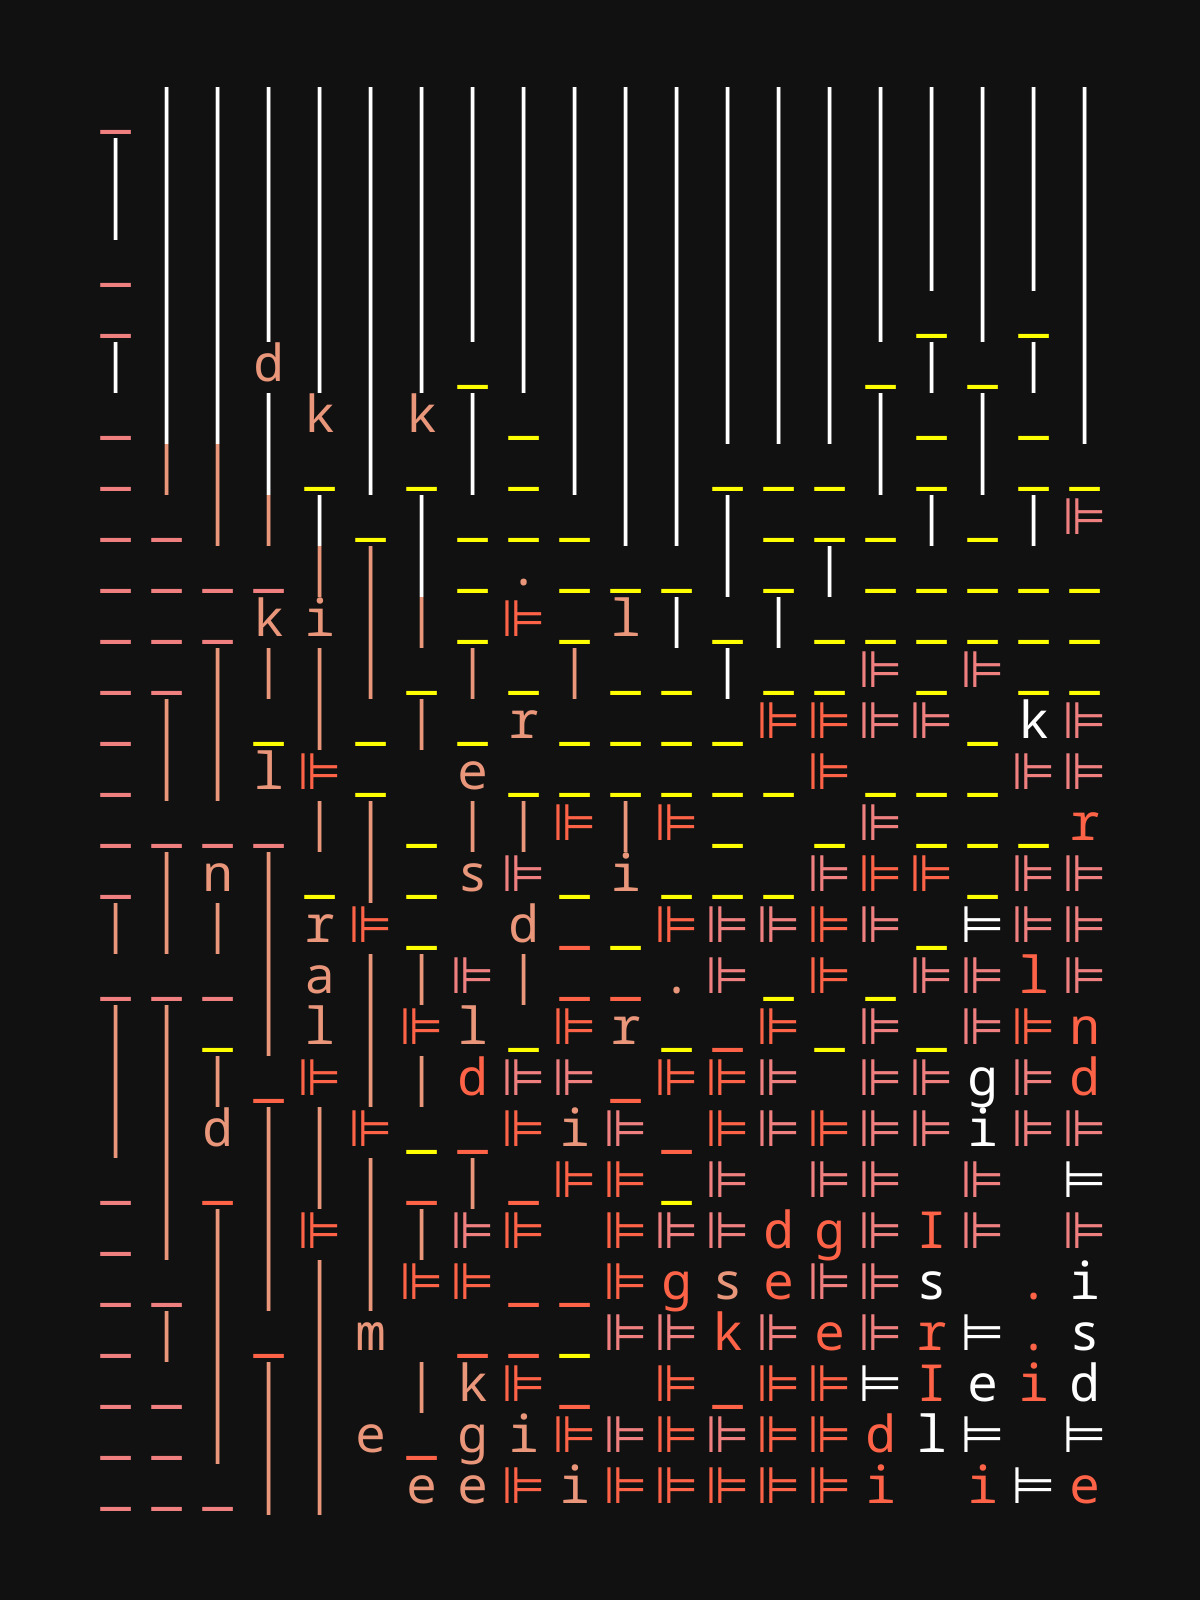
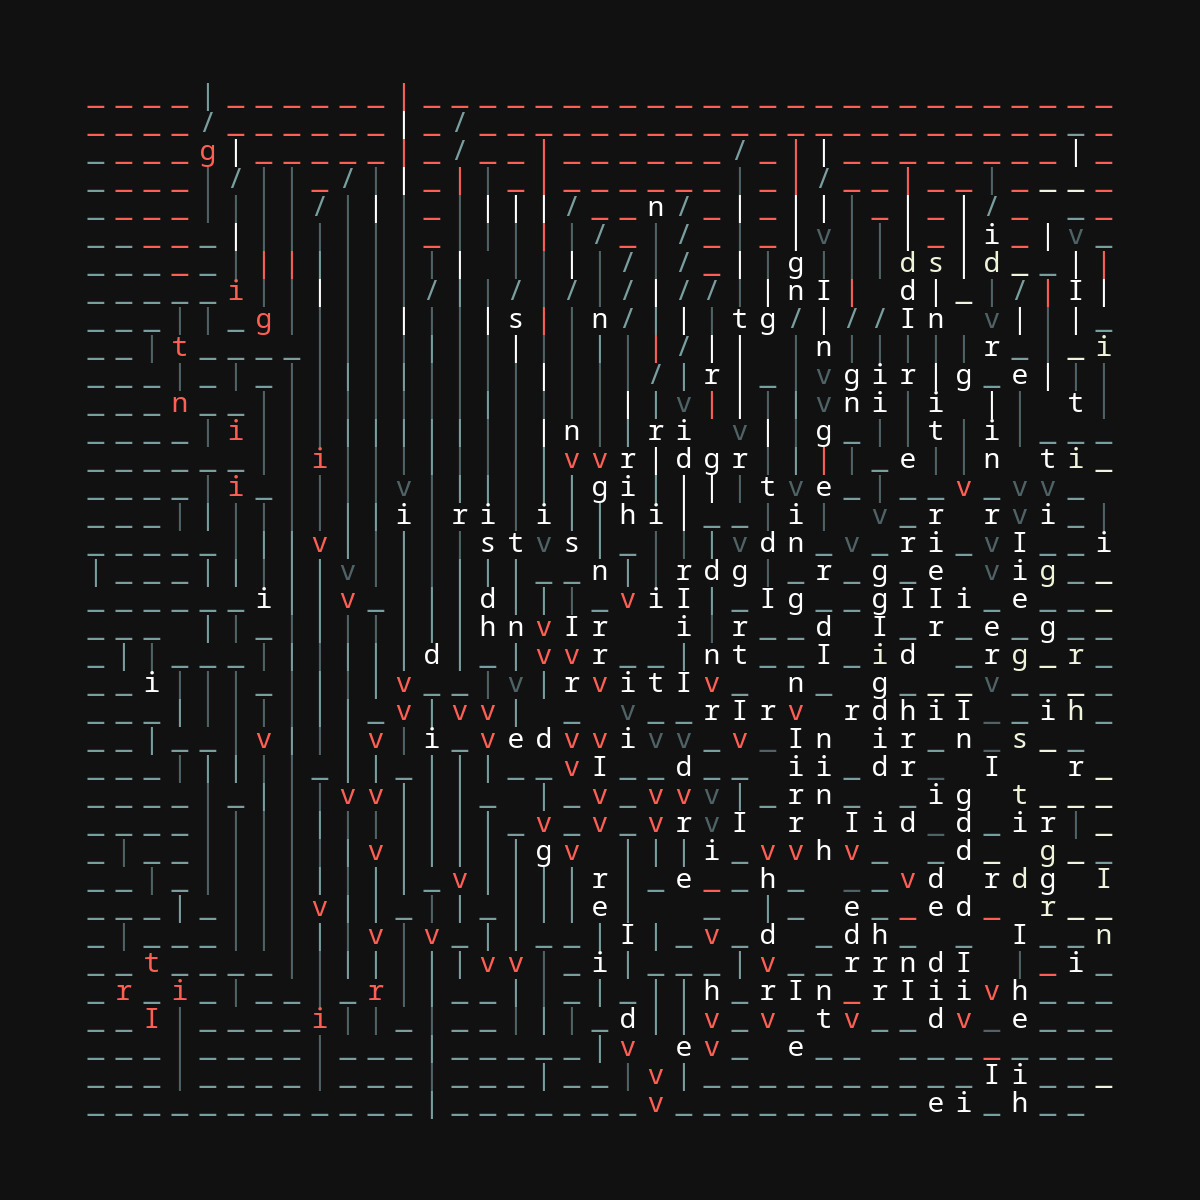
more variation fix FF error (remove canvasRecorder)

Changed region(s): [[0.0617, 0.0617, 0.925, 0.9558]]

diff --git a/sketch/undetermined-type-grid/index.js b/sketch/undetermined-type-grid/index.js
@@ -2,29 +2,45 @@ import '../full-canvas.css'
 import infobox from '../../sketch-common/infobox'
 import handleAction from '../../sketch-common/handle-action'
 import { SYSTEM, pickRandom } from '@thi.ng/random'
-import { downloadCanvas, canvasRecorder } from '@thi.ng/dl-asset'
+//import { downloadCanvas, canvasRecorder } from '@thi.ng/dl-asset'
+import { downloadCanvas } from '@thi.ng/dl-asset'
 import { group, text, rect } from '@thi.ng/geom'
 import { draw } from '@thi.ng/hiccup-canvas'
 
 let state = {}
 
 const { floor } = Math,
-    sentence = [...'I like grid and grid likes me. '],
-    symbols = [...'=±≡⊥—⊫ǁ⊠⊡⊢⊣⊤⊥⊦⊧⊨⊩⊪⊫'],
-    palette = [
-        'tomato',
-        'white',
-        'yellow',
-        'orange',
-        'LightCoral',
-        'DarkSalmon'
-    ],
+    sentence = pickRandom([
+        [...'I like grid and grid likes me. '],
+        [...'Ingrid is in the grid'],
+        [...'CELL']
+    ]),
+    symbols = pickRandom([
+        [...'=±≡⊥—⊫ǁ⊠⊡⊢⊣⊤⊥⊦⊧⊨⊩⊪⊫'],
+        [...'/\\|-~!:><^v'],
+        [...'☐⚀⚄✤✕'],
+        [
+            ...'⠁⠂⠃⠄⠅⠆⠇⠈⠉⠊⠋⠌⠍⠎⠏⠐⠑⠒⠓⠔⠕⠖⠗⠘⠙⠚⠛⠜⠝⠞⠟⠠⠡⠢⠣⠤⠥⠦⠧⠨⠩⠪⠫⠬⠭⠮⠯⠰⠱⠲⠳⠴⠵⠶⠷⠸⠹⠺⠻⠼⠽⠾⠿⡀⡁⡂⡃⡄⡅⡆⡇⡈⡉⡊⡋⡌⡍⡎⡏⡐⡑⡒⡓⡔⡕⡖⡗⡘⡙⡚⡛⡜⡝⡞⡟⡠⡡⡢⡣⡤⡥⡦⡧⡨⡩⡪⡫⡬⡭⡮⡯⡰⡱⡲⡳⡴⡵⡶⡷⡸⡹⡺⡻⡼⡽⡾⡿⢀⢁⢂⢃⢄⢅⢆⢇⢈⢉⢊⢋⢌⢍⢎⢏⢐⢑⢒⢓⢔⢕⢖⢗⢘⢙⢚⢛⢜⢝⢞⢟⢠⢡⢢⢣⢤⢥⢦⢧⢨⢩⢪⢫⢬⢭⢮⢯⢰⢱⢲⢳⢴⢵⢶⢷⢸⢹⢺⢻⢼⢽⢾⢿⣀⣁⣂⣃⣄⣅⣆⣇⣈⣉⣊⣋⣌⣍⣎⣏⣐⣑⣒⣓⣔⣕⣖⣗⣘⣙⣚⣛⣜⣝⣞⣟⣠⣡⣢⣣⣤⣥⣦⣧⣨⣩⣪⣫⣬⣭⣮⣯⣰⣱⣲⣳⣴⣵⣶⣷⣸⣹⣺⣻⣼⣽⣾⣿'
+        ]
+    ]),
+    palette = pickRandom([
+        ['tomato', 'white', 'yellow', '#3b36d8'],
+        ['#bfc8ad', '#90b494', '#718f94', '#545775'],
+        ['#e9d758', '#297373', '#ff8552', '#e6e6e6'],
+        ['#0496ff', '#ffbc42', '#d81159', '#8f2d56'],
+        ['#8eb8e5', '#7c99b4', '#6b7f82', '#5b5750', '#492c1d'],
+        ['#ee6c4d', '#33312e', '#f38d68', '#662c91', '#17a398'],
+        ['#55d6be', '#2e5eaa', '#5b4e77', '#593959'],
+        ['#61304b', '#857c8d', '#94bfbe', '#acf7c1'],
+        ['#7a9e9f', '#4f6367', '#eef5db', '#fe5f55'],
+        ['#00bd9d', '#49c6e5', '#54defd', '#fffbfa', '#8bd7d2']
+    ]),
     dpr = window.devicePixelRatio || 1,
     windowFrame = document.getElementById('windowFrame'),
     loader = document.getElementById('loading'),
     canvas = document.createElement('canvas'),
-    fps = 24,
-    recorder = canvasRecorder(canvas, 'undetermined-type-grid', { fps: 24 }),
+    fps = 12,
+    //recorder = canvasRecorder(canvas, 'undetermined-type-grid', { fps: 24 }),
     ctx = canvas.getContext('2d'),
     doUpdate = true
 
@@ -90,10 +106,7 @@ const init = () => {
     cancelAnimationFrame(timer)
     const margin = SYSTEM.minmaxInt(20, 100),
         cellSize = SYSTEM.minmaxInt(24, 72),
-        bounds = [
-            canvas.width - margin * 2, 
-            canvas.height - margin * 2
-        ],
+        bounds = [canvas.width - margin * 2, canvas.height - margin * 2],
         cols = floor(bounds[0] / cellSize),
         rows = floor(bounds[1] / cellSize),
         remains = [bounds[0] - cols * cellSize, bounds[1] - rows * cellSize]
@@ -119,17 +132,17 @@ const init = () => {
 // draw loop
 const update = () => {
     const { cellSize, cols, rows, margin } = state
-    if (loop === fps * 120) recorder.stop()
+    //if (loop === fps * 120) recorder.stop()
     if (loop % 600 === 0) {
         inject = sentence
         currColor = 'white'
     }
-    if (loop % 150 === 0) {
+    if (loop % 250 === 0) {
         alterDir.sel = alterDir.sel === 'x' ? 'y' : 'x'
         currColor = pickRandom(palette)
     }
 
-    if (loop % 250 === 0) {
+    if (loop % 400 === 0) {
         if (SYSTEM.float() > 0.5) {
             inject = pickRandom(symbols)
             currColor = pickRandom(palette)
@@ -141,7 +154,7 @@ const update = () => {
             }
         }
     }
-    if (loop % 200 === 0 && SYSTEM.float() > 0.5) {
+    if (loop % 450 === 0 && SYSTEM.float() > 0.5) {
         alterDir.way = !alterDir.way
         currColor = pickRandom(palette)
     }
@@ -192,12 +205,8 @@ const update = () => {
 init()
 windowFrame.removeChild(loader)
 window.onresize = init()
-
-document.addEventListener('keydown', () => {
-    frame = 0
-    recorder.start()
-})
+// recorder.start()
 window.init = init
-window.export_JPG = () => downloadCanvas(canvas, `text`)
+window.export_JPG = () => downloadCanvas(canvas, `undetermined-type-grid`)
 window.infobox = infobox
 handleAction()
